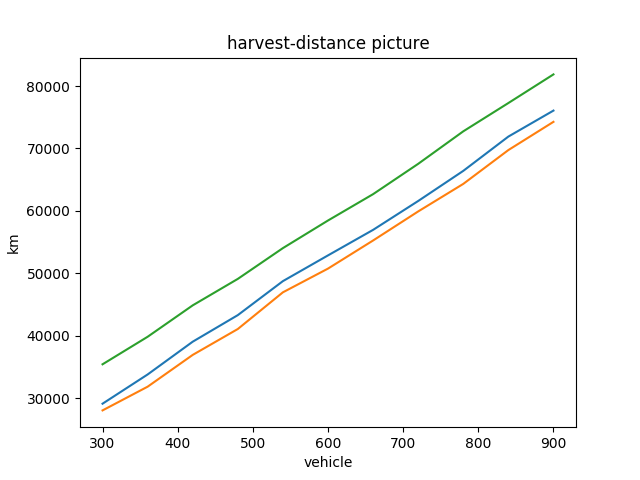
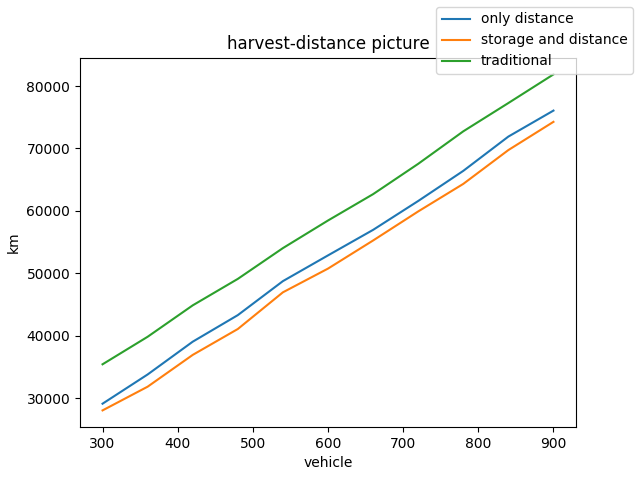
update 图例

Changed region(s): [[0.6875, 0.0, 1.0, 0.1562], [0.6875, 0.0312, 0.7188, 0.0938]]

diff --git a/code/dataVisual.py b/code/dataVisual.py
@@ -47,16 +47,18 @@ class DataVisual:
         ax1.set_title('harvest-distance picture')
         ax1.set_xlabel('vehicle')
         ax1.set_ylabel('km')
-        ax1.plot(percent, total_dis1)
-        ax1.plot(percent, total_dis2)
-        ax1.plot(percent, total_dis3)
+        ax1.plot(percent, total_dis1, label='only distance')
+        ax1.plot(percent, total_dis2, label='storage and distance')
+        ax1.plot(percent, total_dis3, label='traditional')
+        fig1.legend()
         fig2 = plt.figure()
         ax2 = fig2.add_subplot(1, 1, 1)
         ax2.set_title('harvest-price picture')
         ax2.set_xlabel('vehicle')
         ax2.set_ylabel('yuan')
-        ax2.plot(percent, total_price1)
-        ax2.plot(percent, total_price2)
+        ax2.plot(percent, total_price1, label='only distance')
+        ax2.plot(percent, total_price2, label='storage and distance')
+        fig2.legend()
         plt.show()
 
 
